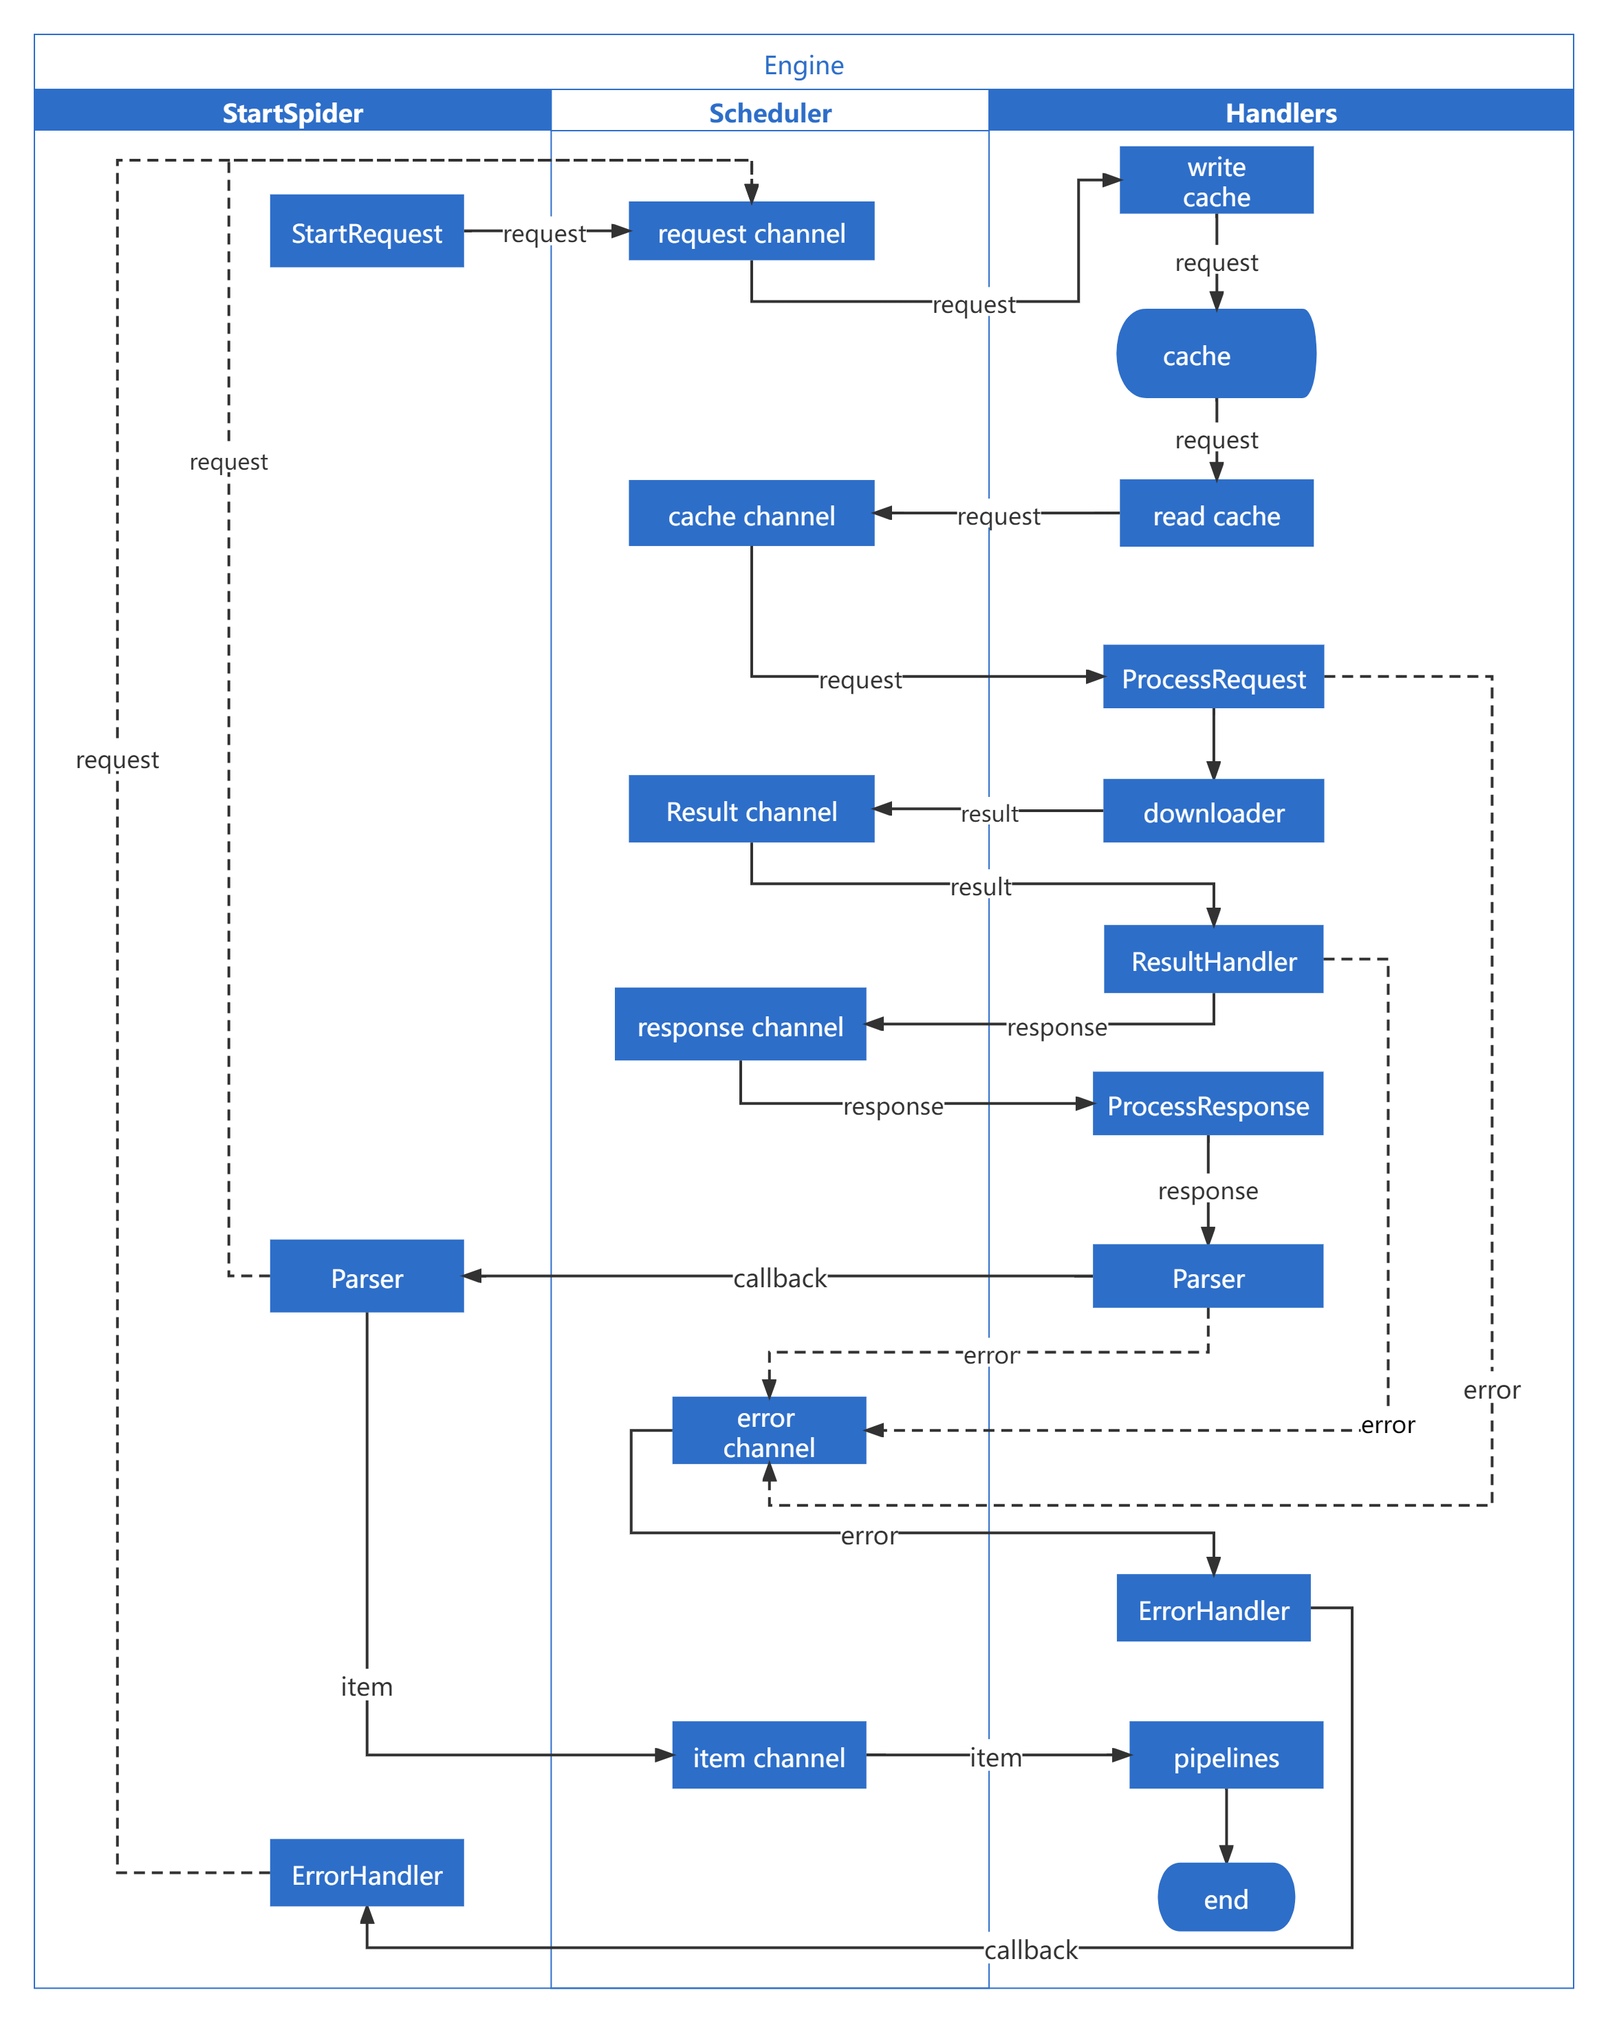
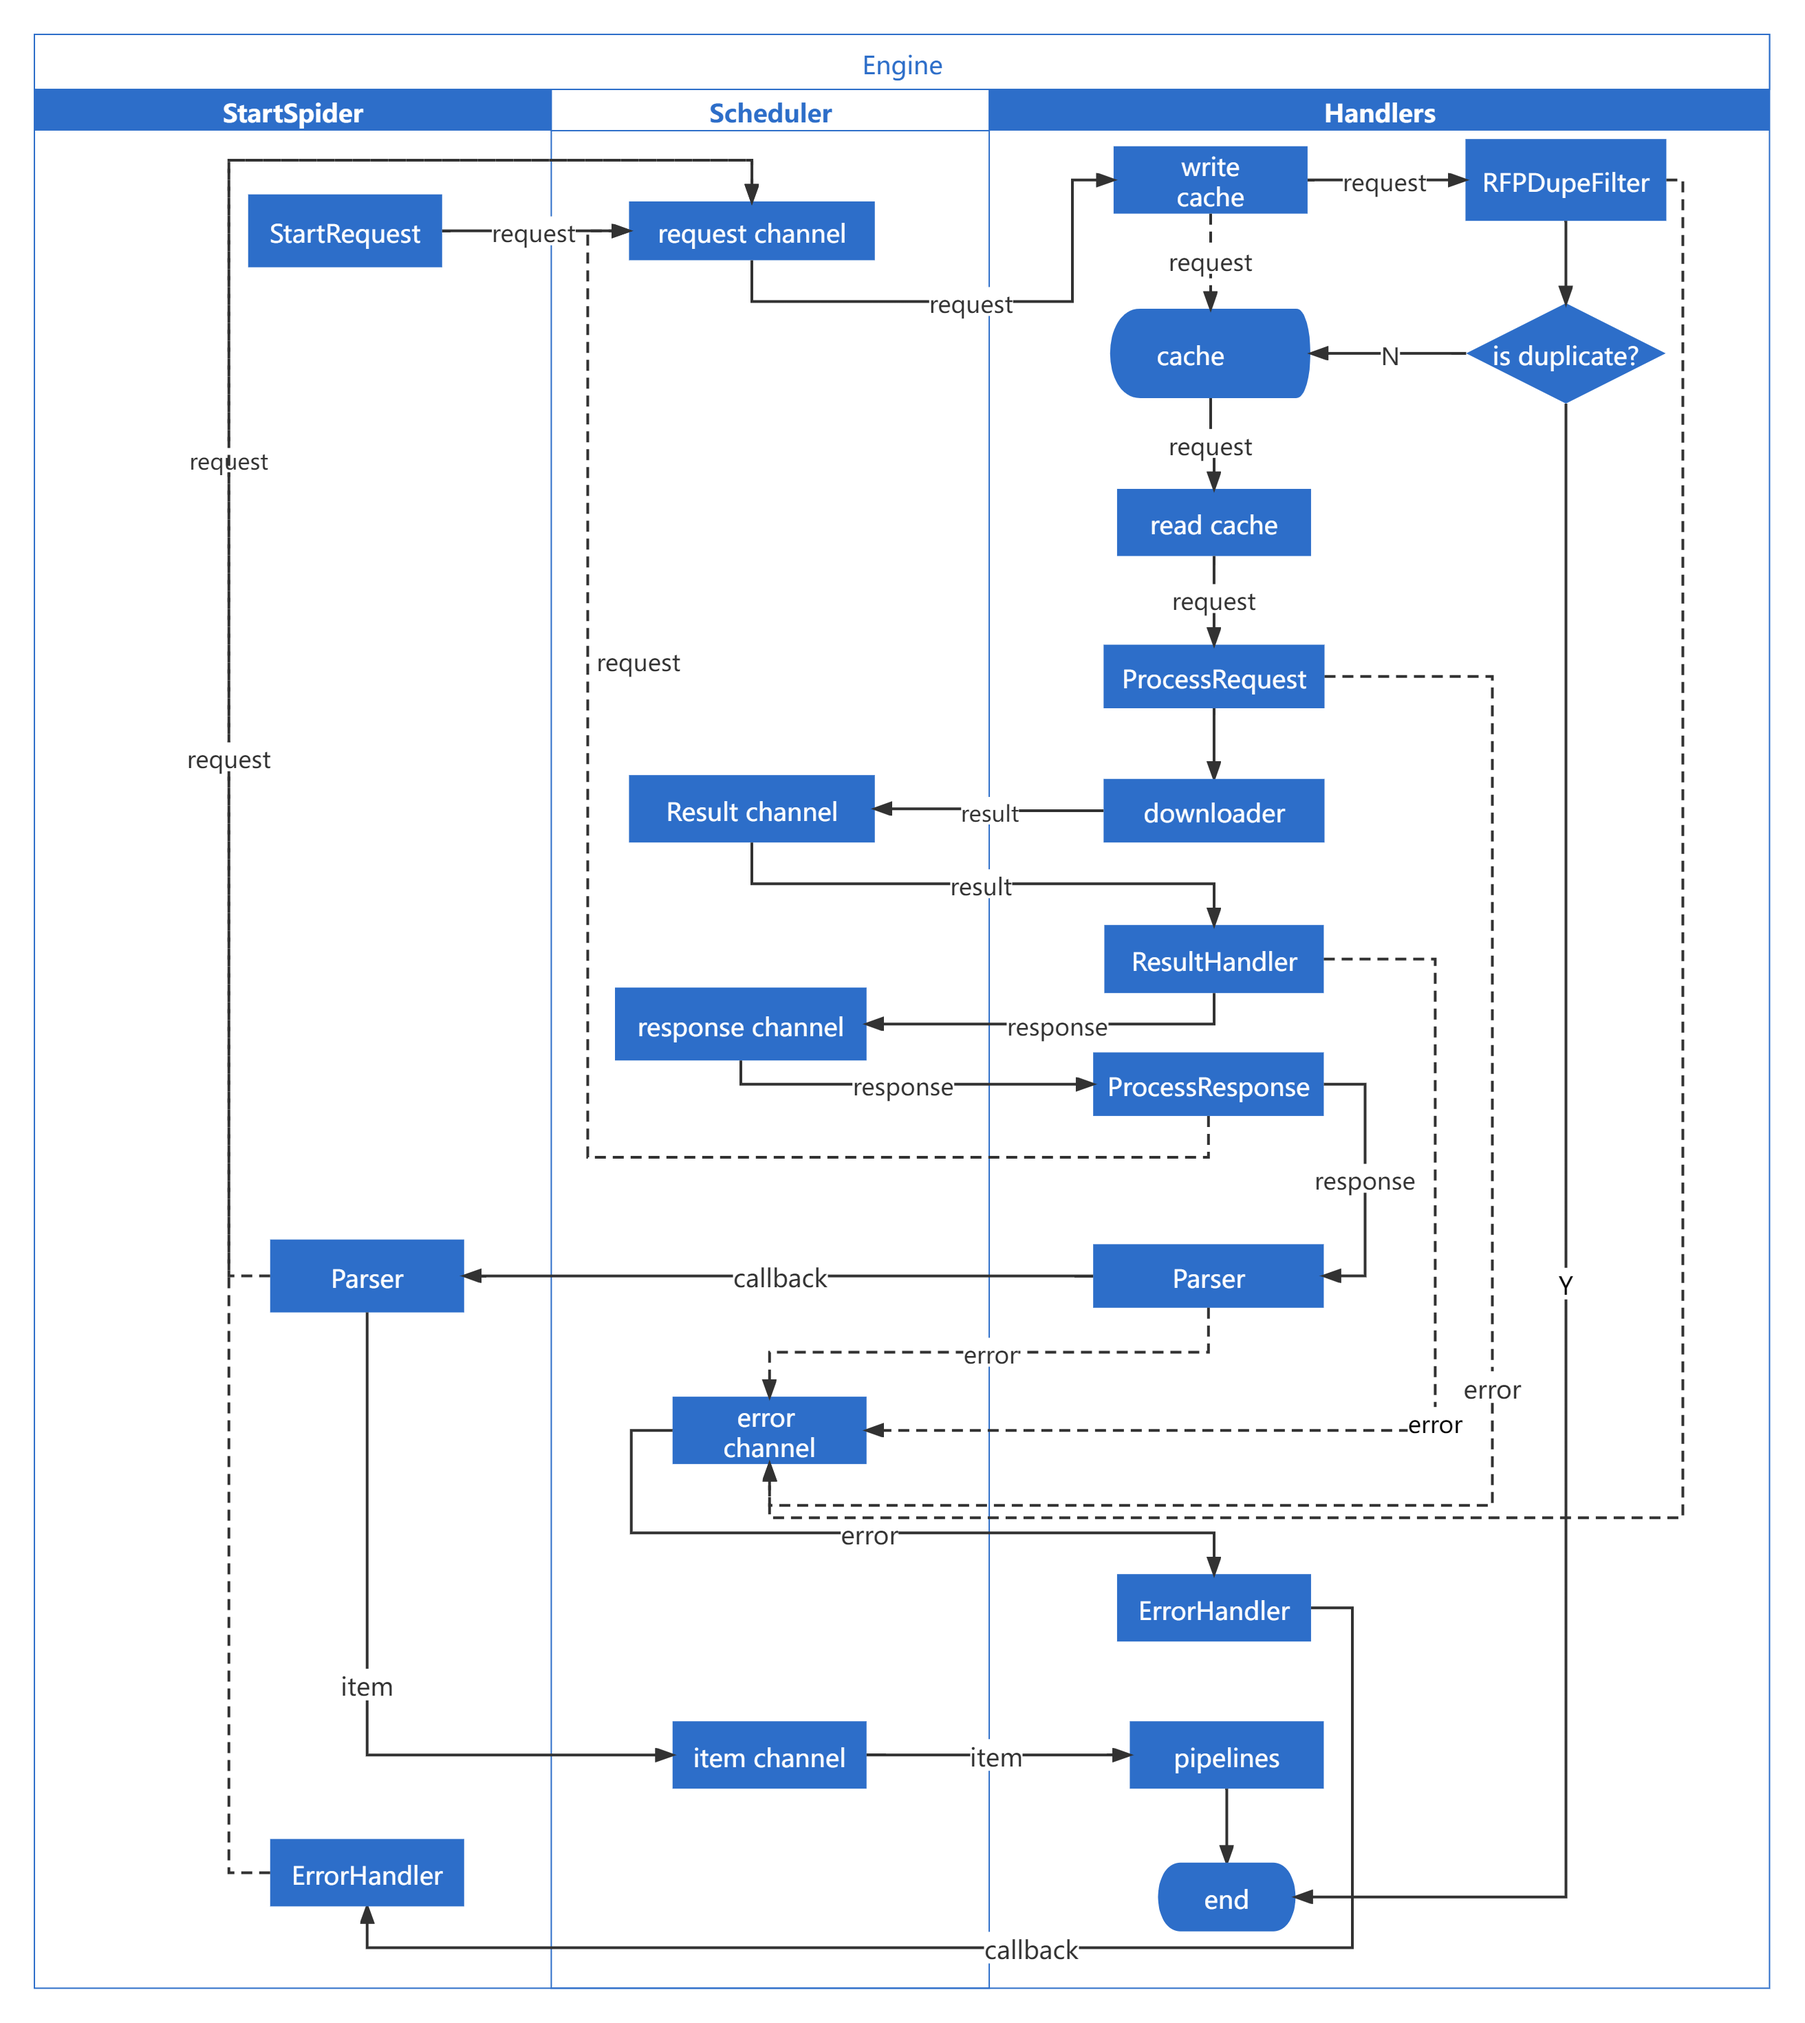
chore:update data flow chart doc

diff --git a/docs/Tegenaria_EN.md b/docs/Tegenaria_EN.md
@@ -53,7 +53,7 @@ This project borrows the design idea of [scrapy](https://github.com/scrapy/scrap
 * The request object is first written to the cache queue (which uses memory by default), before the engine enables or skips the request de-duplicator depending on the settings
 * If the request de-duplicator is enabled, it calculates the request fingerprint and puts it into a Bloom filter for de-duplication.
 * If it is a duplicate request and the engine is set not to allow duplicate requests to be sent, the request is ignored otherwise the reuquest is written to the cache
-* The scheduler reads the request from the cache and sends it to the download processor via the cache channel
+* Scheduler reads Request from the cache and start the download processor
 * The download processor calls the ProcessRequest method of the download middleware in order of priority before the official download.  
 * The downloader generates a RequestResult after processing the request, including HandleError and Response, and then sends the request result to the scheduler via the RequestResult channel  
 * The scheduler will enable a download result handler concurrently for each received RequestResult to process the HandleError to the error channel and the non-empty Response to the response channel.

diff --git a/docs/Tegenaria_ZH.md b/docs/Tegenaria_ZH.md
@@ -54,8 +54,8 @@
 * Spider 通过StartRequest 方法构建种子请求(Context)，并通过Request channel发送到调度器  
 * 请求对象会先写到缓存队列(默认使用内存)中 ,在此之前引擎根据设置启用或跳过request去重器
 * 若启用request去重器，其会计算request指纹并放入布隆过滤器进行去重处理
-* 若是重复的请求且设置引擎不允许重复请求发送，则忽略该请求否则将reuquest写入缓存
-* 调度器从缓存中读取Request并通过cache channel发送到下载处理器
+* 若是重复的请求且设置引擎不允许重复请求发送，则忽略该请求否则将request写入缓存
+* 调度器从缓存中读取Request并启用下载处理器
 * 下载处理器在正式下载之前会按优先级调用下载中间件的ProcessRequest方法  
 * 下载器在处理请求结束后会生成RequestResult，包含HandleError和Response,随后请求结果会通过RequestResult channel发送到调度器  
 * 调度器接会为每一个接收到的RequestResult启用一个下载结果处理器协程进行处理将HandleError发送到error channel,将非空Response发送到response channel
